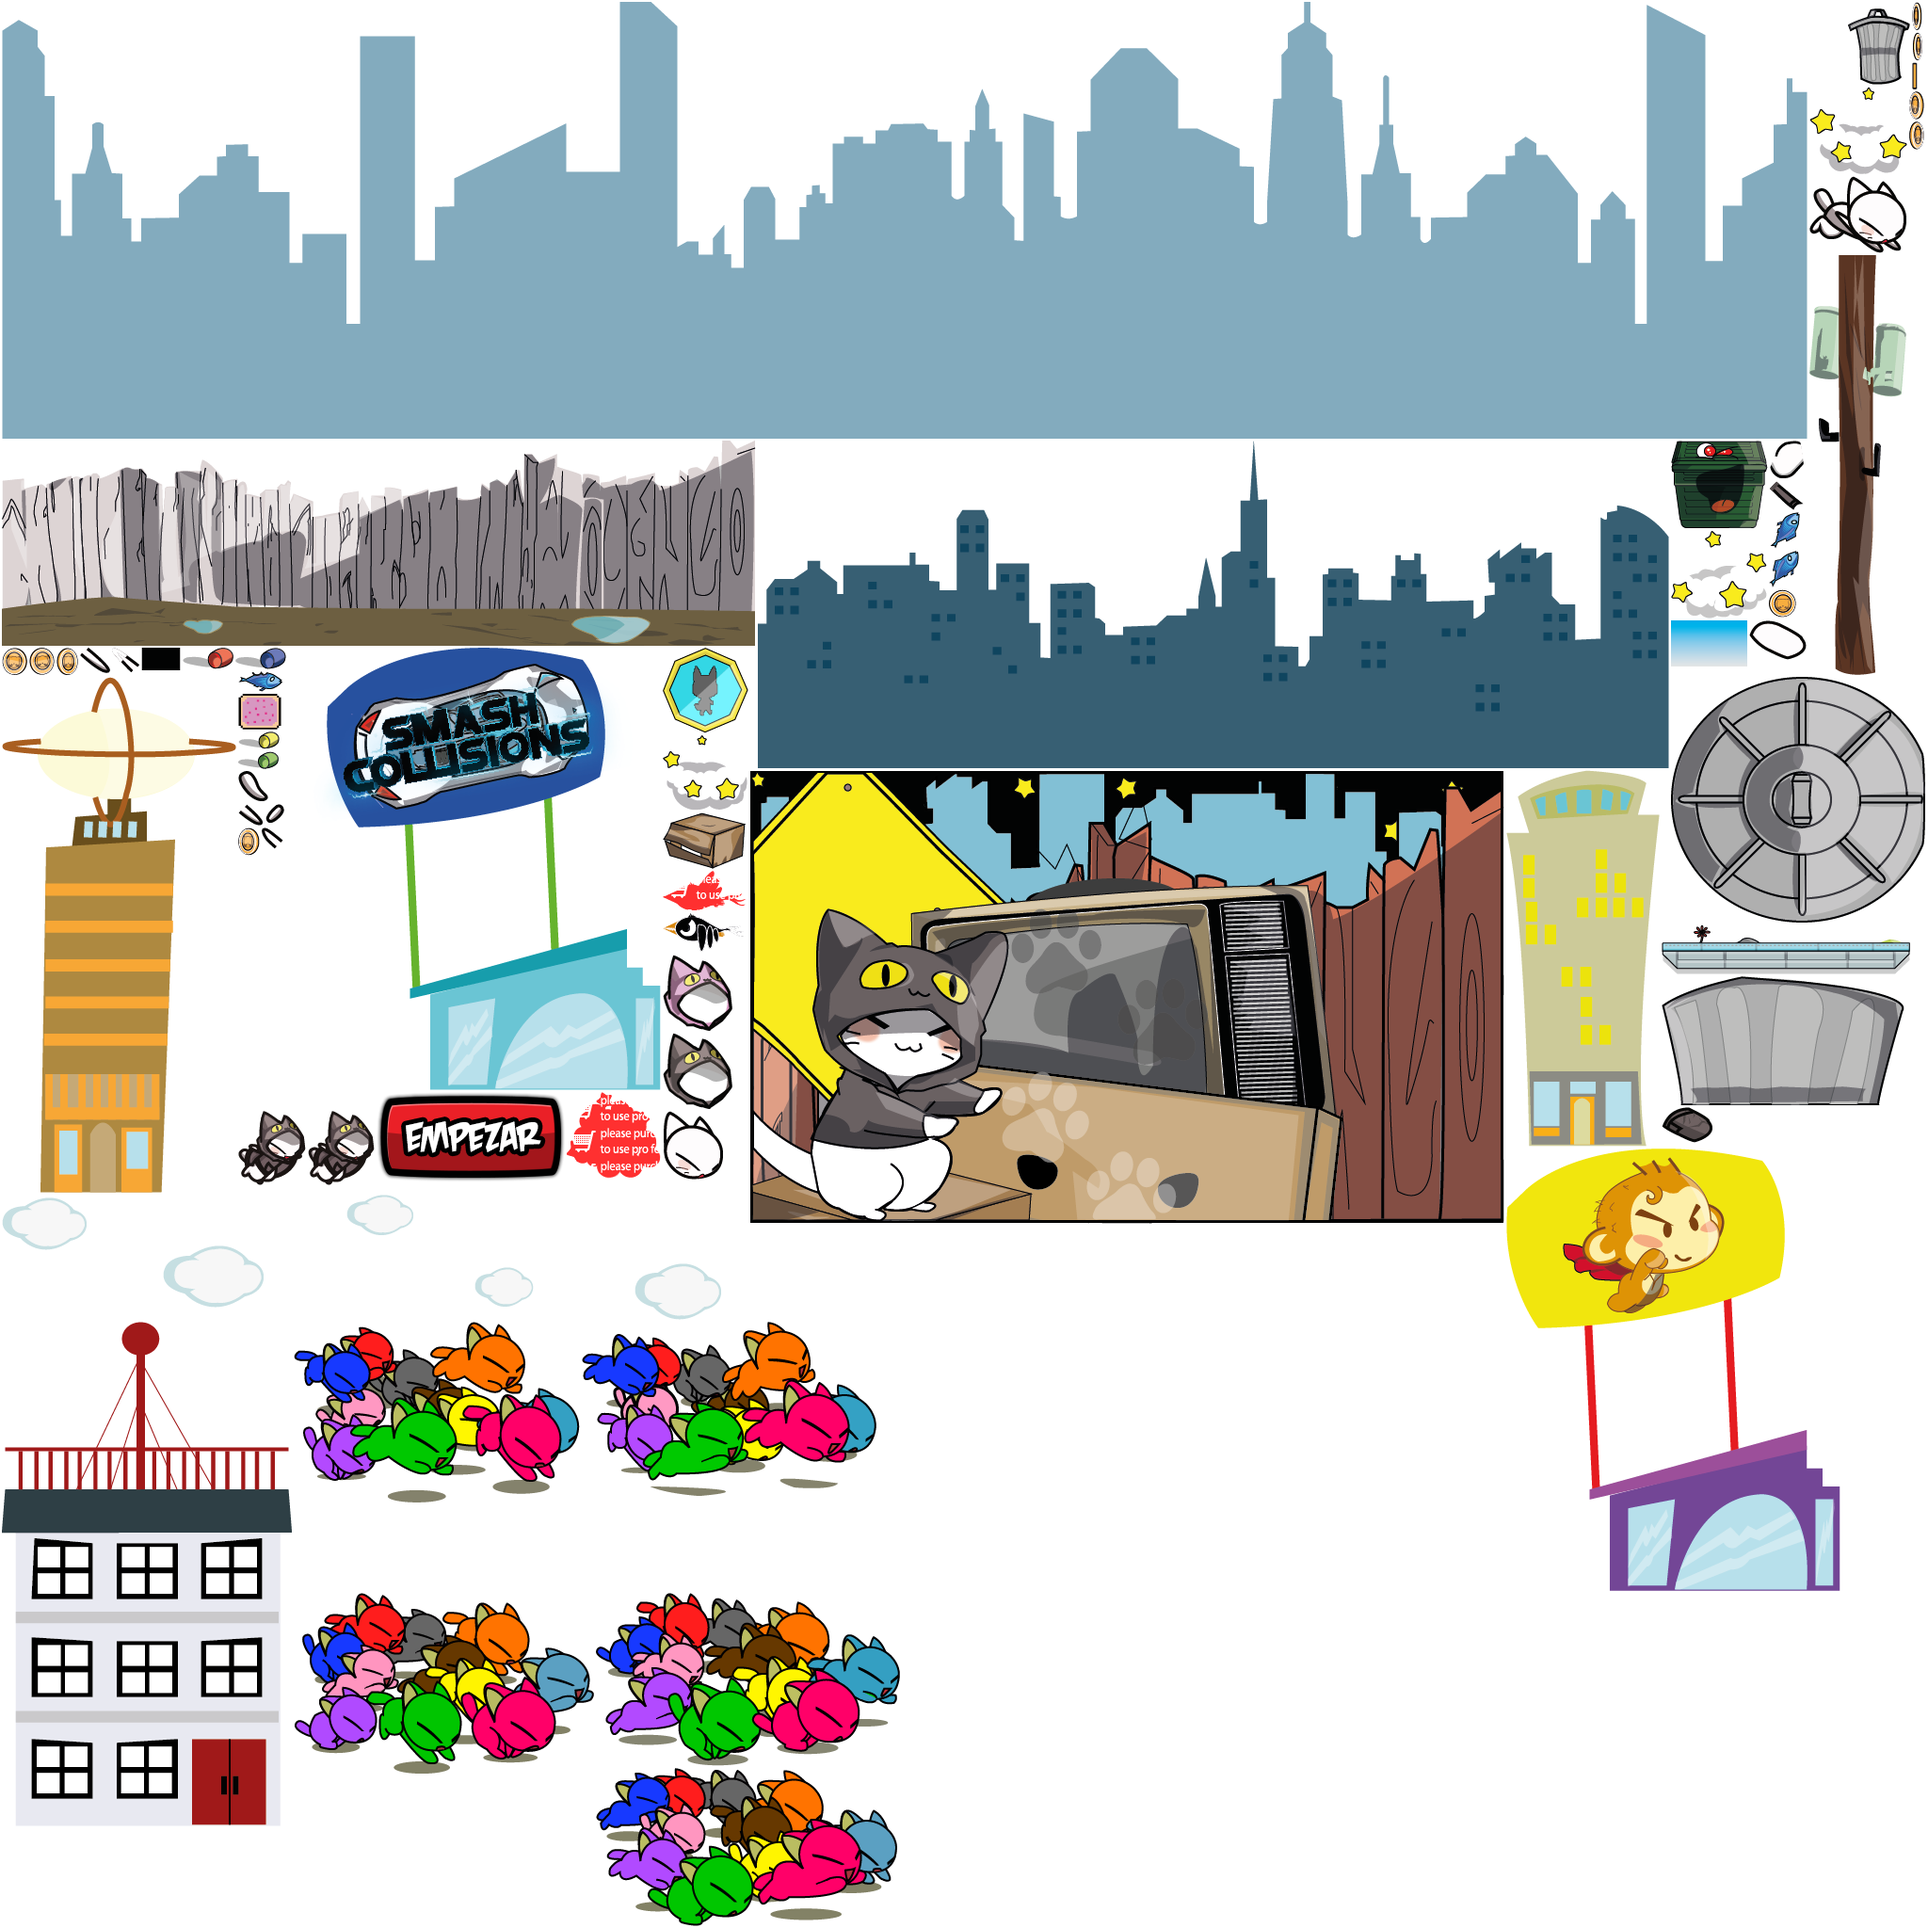
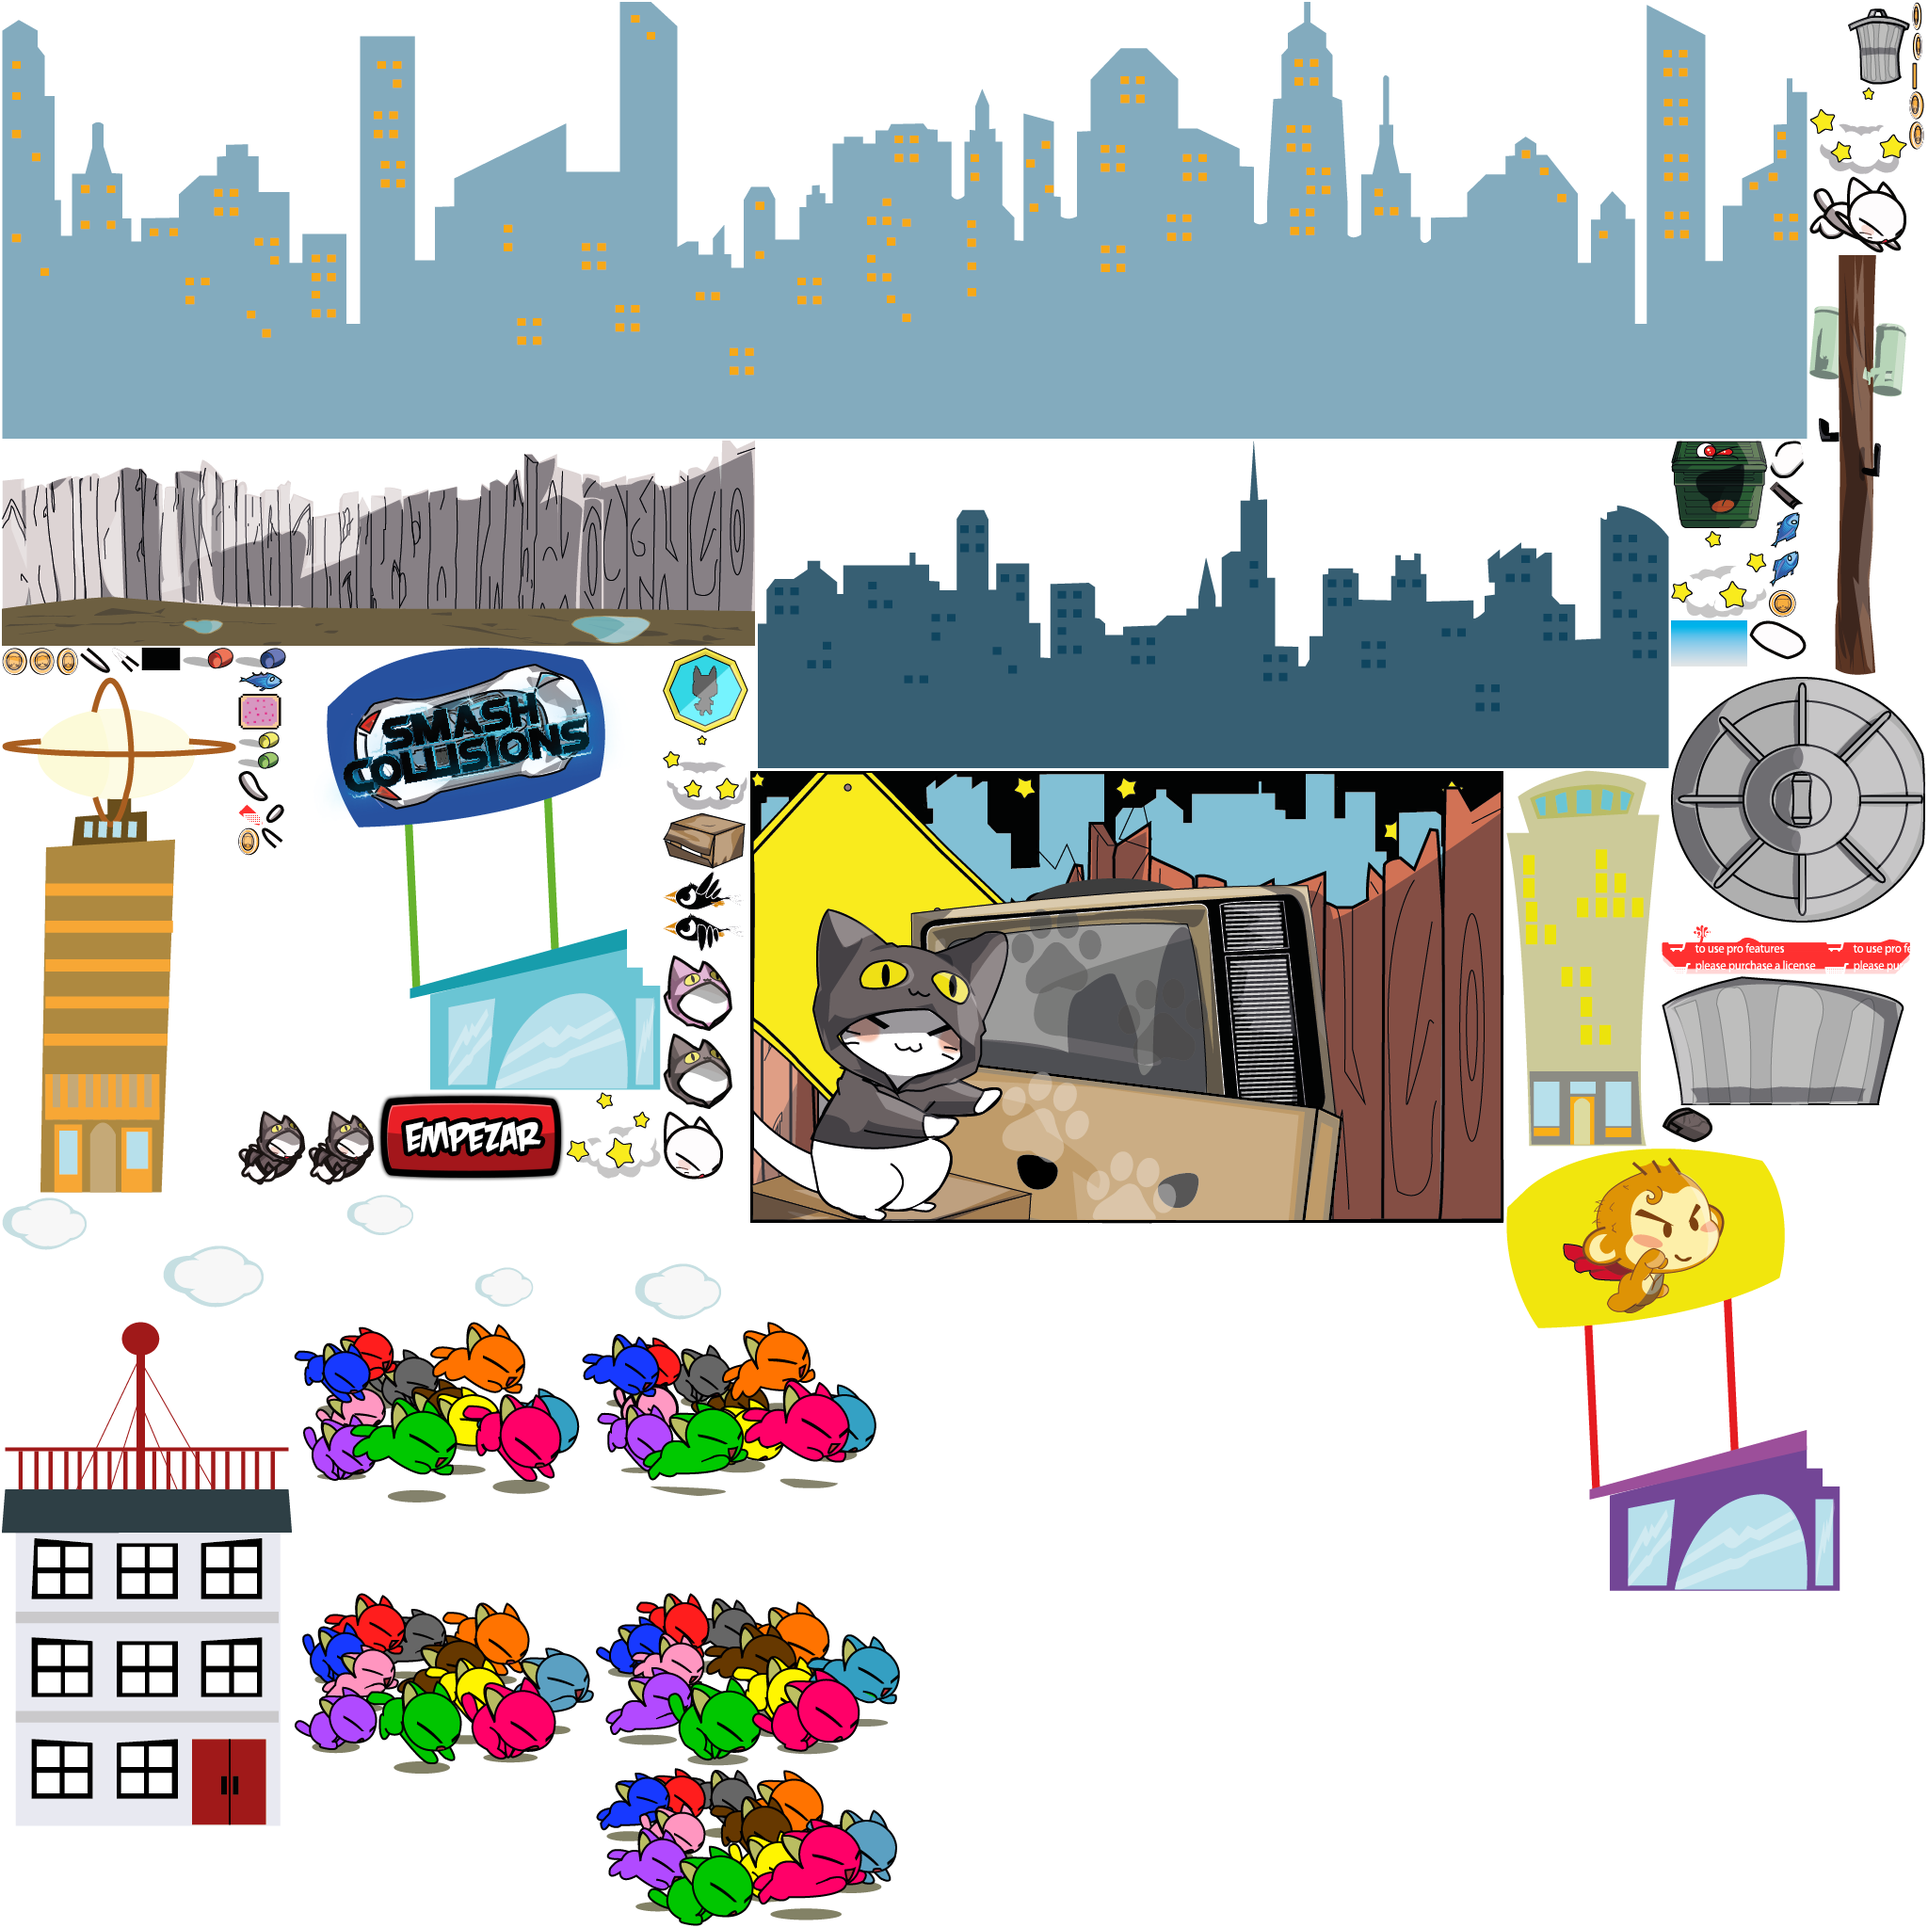
ventanas edificio faltante

diff --git a/Shoppu/src/com/me/mygdxgame/Assets.java b/Shoppu/src/com/me/mygdxgame/Assets.java
@@ -189,8 +189,8 @@ public class Assets {
 		postecemento = atlas.findRegion("postecemento");
 		
 		//-----------------------------------
-		ParallaxLayer edifBlanco = new ParallaxLayer(atlas.findRegion("fondoedificioazul"), new Vector2(3, 0), new Vector2(0, 100), new Vector2(-1, 700), 968, 348);
-		ParallaxLayer edifNegro = new ParallaxLayer(atlas.findRegion("fondoedificioazulmar"), new Vector2(4, 0), new Vector2(0, 0), new Vector2(-3, 700), 1918, 464);
+		ParallaxLayer edifBlanco = new ParallaxLayer(atlas.findRegion("fondoedificioazulmar"), new Vector2(3, 0), new Vector2(0, 100), new Vector2(-1, 700), 968, 348);
+		ParallaxLayer edifNegro = new ParallaxLayer(atlas.findRegion("fondoedificioazul"), new Vector2(4, 0), new Vector2(0, 0), new Vector2(-3, 700), 1918, 464);
 		
 		ParallaxLayer as[] = new ParallaxLayer[] { edifBlanco,edifNegro};
 		
